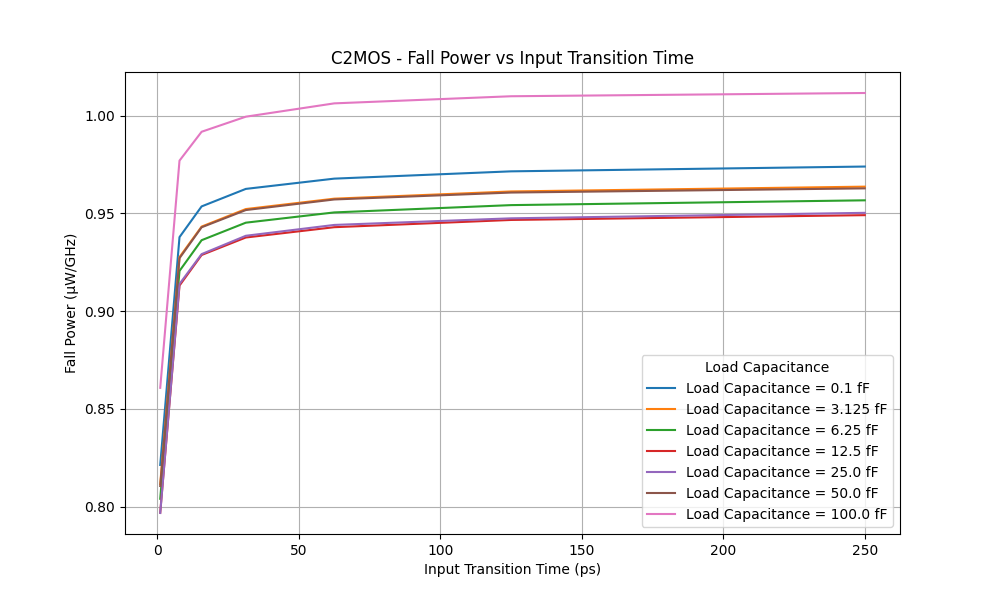
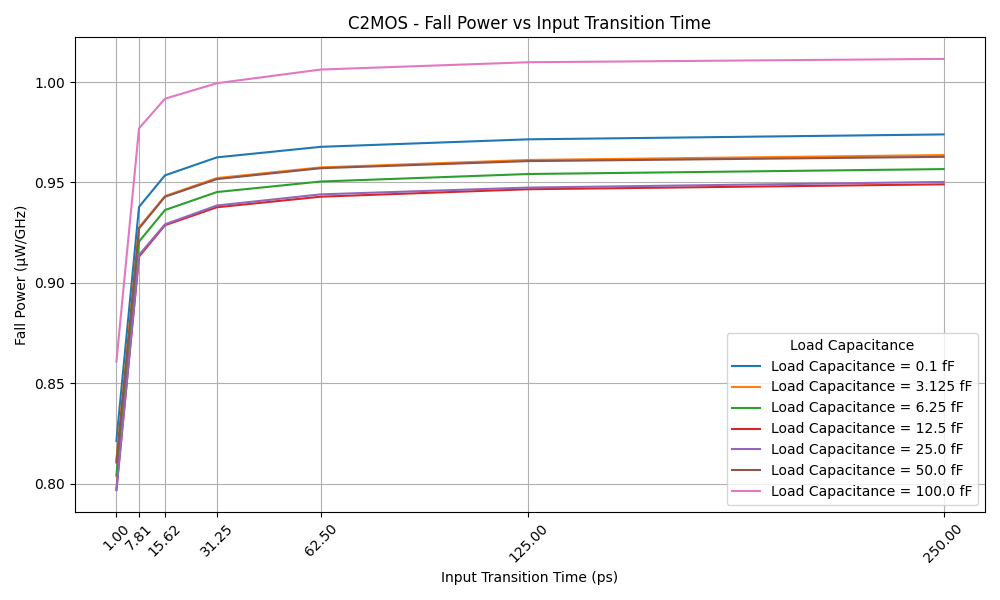
TCC

diff --git a/plot_all_graphs.py b/plot_all_graphs.py
@@ -225,7 +225,7 @@ def calculate_lut_values(all_lut_info):
                         lut_values = np.array(lut['values'], dtype=float)
                         if key in average_metric:
                             if lut_values.shape != (1,1):
-                                target_value = np.average(lut_values[:, 1])
+                                target_value = np.average(lut_values[:, 2])
                             else:
                                 target_value = np.nan
                         elif key in worst_metric:
@@ -270,15 +270,15 @@ def calculate_additional_metrics(all_lut_info, plot_data):
             try:
                 lut_rise = np.array(luts['cell_rise'][0]['values'], dtype=float)
                 lut_fall = np.array(luts['cell_fall'][0]['values'], dtype=float)
-                lut_rise_column = lut_rise[:, 1]
-                lut_fall_column = lut_fall[:, 1]
+                lut_rise_column = lut_rise[:, 2]
+                lut_fall_column = lut_fall[:, 2]
                 average_rise_fall = (lut_rise_column + lut_fall_column) / 2.0
                 propagation_delay = np.average(average_rise_fall)
 
                 lut_rise_trans = np.array(luts['output_rise_transition'][0]['values'], dtype=float)
                 lut_fall_trans = np.array(luts['output_fall_transition'][0]['values'], dtype=float)
-                lut_rise_trans_column = lut_rise_trans[:, 1]
-                lut_fall_trans_column = lut_fall_trans[:, 1]
+                lut_rise_trans_column = lut_rise_trans[:, 2]
+                lut_fall_trans_column = lut_fall_trans[:, 2]
                 average_rise_fall_trans = (lut_rise_trans_column + lut_fall_trans_column) / 2.0
                 output_transition = np.average(average_rise_fall_trans)
 
@@ -293,8 +293,8 @@ def calculate_additional_metrics(all_lut_info, plot_data):
                 # Calculate full cycle power
                 lut_fall_power = np.array(luts['fall_power'][0]['values'], dtype=float) 
                 lut_rise_power = np.array(luts['rise_power'][2]['values'], dtype=float)
-                lut_fall_power_column = lut_fall_power[:, 1]
-                lut_rise_power_column = lut_rise_power[:, 1]
+                lut_fall_power_column = lut_fall_power[:, 2]
+                lut_rise_power_column = lut_rise_power[:, 2]
                 sum_fall_rise_power = lut_fall_power_column + lut_rise_power_column
                 average_fall_rise_power = (lut_fall_power_column + lut_rise_power_column) / 2.0
                 full_cycle_power = np.average(sum_fall_rise_power)
@@ -354,14 +354,15 @@ def plot_vts_subplots(plot_data):
             for cell_name, luts in plot_data.items():
                 if key == 'metastability_window' and cell_name == 'TGFF_DYN':
                     continue
-                y_values = []
+                y_values_list = []
                 for corner in x_labels:
                     if key in luts and vt in luts[key] and corner in luts[key][vt]:
-                        y_values.append(luts[key][vt][corner])
+                        y_values_list.append(luts[key][vt][corner])
                     else:
-                        y_values.append(float('nan'))
+                        y_values_list.append(float('nan'))
                 
                 marker = markers.get(cell_name, 'o')  # Default to circle if marker not found
+                y_values = np.array(y_values_list, dtype=float)
                 ax.plot(x_labels, y_values, marker=marker, label=cell_name)
 
             ax.set_title(vt)
@@ -381,10 +382,10 @@ def plot_individual_luts(all_lut_info):
             for key, luts in lut_info.items():
                 if key == 'leakage_power':
                     continue
-                # if cell_name != 'C2MOS':
-                #     continue
-                # if file_name != 'RVT_TT.lib':
-                #     continue
+                if cell_name != 'C2MOS':
+                    continue
+                if file_name != 'RVT_TT.lib':
+                    continue
 
                 file_name_path = file_name.split('.')[0]
                 individual_graphs_dir = f'./plots/individual_graphs/{file_name_path}/{cell_name}/'
@@ -408,12 +409,14 @@ def plot_individual_luts(all_lut_info):
                         else:
                             print(f"Skipping plot for {key} in {cell_name} due to dimension mismatch: len(index_1)={len(index_1)} len(row_values)={len(row_values)} row_values={row_values}")
                 
-                # plt.xscale('log')
+                # Ensure x-axis ticks are displayed
+                plt.xticks(index_1, labels=[f'{x:.2f}' for x in index_1], rotation=45)
                 plt.xlabel(index_1_name + f' ({metric_units.get(index_1_label, "")})')
                 plt.ylabel(f'{key.replace("_", " ").title()} ({metric_units.get(key, "")})')
                 plt.title(f'{cell_name} - {key.replace("_", " ").title()} vs {index_1_name}')
                 plt.legend(title=index_2_name)
                 plt.grid(True)
+                plt.tight_layout()  # Adjust layout to ensure everything fits
                 plt.savefig(f'{individual_graphs_dir}/{key}_{index_1_label}.png')  # Save the plot as a PNG file
                 plt.close()
 
@@ -431,12 +434,14 @@ def plot_individual_luts(all_lut_info):
                         else:
                             print(f"Skipping plot for {key} in {cell_name} due to dimension mismatch: len(index_2)={len(index_2)} len(col_values)={len(col_values)} col_values={col_values}")
                 
-                # plt.xscale('log')
+                # Ensure x-axis ticks are displayed
+                plt.xticks(index_2, labels=[f'{x:.2f}' for x in index_2], rotation=45)
                 plt.xlabel(index_2_name + f' ({metric_units.get(index_2_label, "")})')
                 plt.ylabel(f'{key.replace("_", " ").title()} ({metric_units.get(key, "")})')
                 plt.title(f'{cell_name} - {key.replace("_", " ").title()} vs {index_2_name}')
                 plt.legend(title=index_1_name)
                 plt.grid(True)
+                plt.tight_layout()  # Adjust layout to ensure everything fits
                 plt.savefig(f'{individual_graphs_dir}/{key}_{index_2_label}.png')  # Save the plot as a PNG file
                 plt.close()
 
@@ -449,8 +454,8 @@ plot_data = calculate_lut_values(all_lut_info)
 
 plot_individual_luts(all_lut_info)
 
-plot_data = calculate_additional_metrics(all_lut_info, plot_data)
+# plot_data = calculate_additional_metrics(all_lut_info, plot_data)
 
-plot_vts_subplots(plot_data)
+# plot_vts_subplots(plot_data)
 
 
